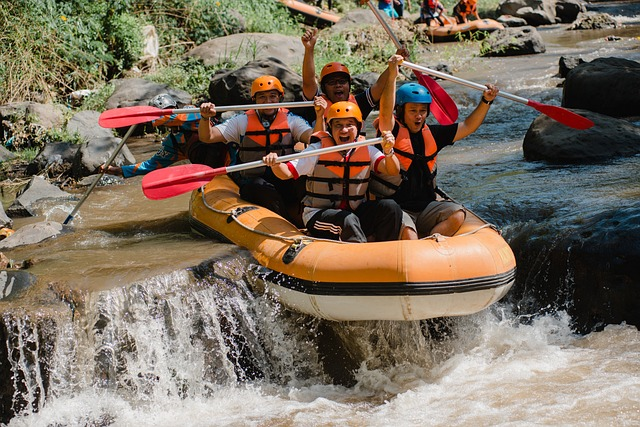
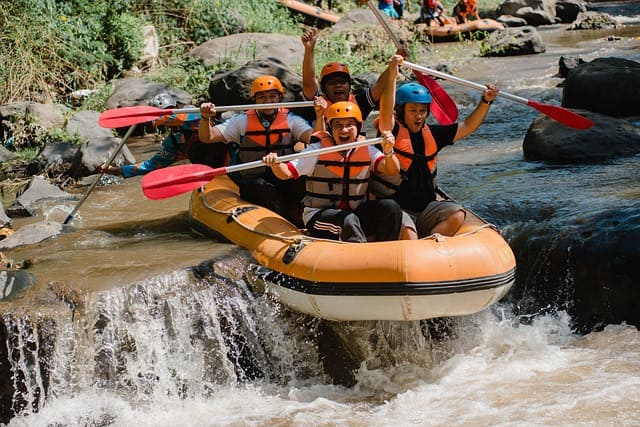
Week 4 -  fixes

diff --git a/wwr/about.html b/wwr/about.html
@@ -4,7 +4,7 @@
 <head>
     <meta charset="UTF-8">
     <meta name="viewport" content="width=device-width, initial-scale=1.0">
-    <title>About Us - Splash Water White Rafting</title>
+    <title>About Us</title>
     <meta name="description" content="Splash White Water Rafting Company About Us page, detailing our mission, history, and exciting expeditions.">
     <meta name="author" content="Elias Gabriel Rolon">
     <link rel="stylesheet" href="styles/rafting.css">
@@ -66,7 +66,7 @@
     </main>
 
     <footer>
-        <p>&copy; 2026 | Splash Water White Rafting | Elias Gabriel Rolon</p>
+        <p>&copy; 2026 | Splash | Elias Gabriel Rolon</p>
 
         <nav class="socialmedia">
             <a href="https://facebook.com" target="_blank" rel="noopener"><img src="images/facebook.png" alt="Facebook"></a>
